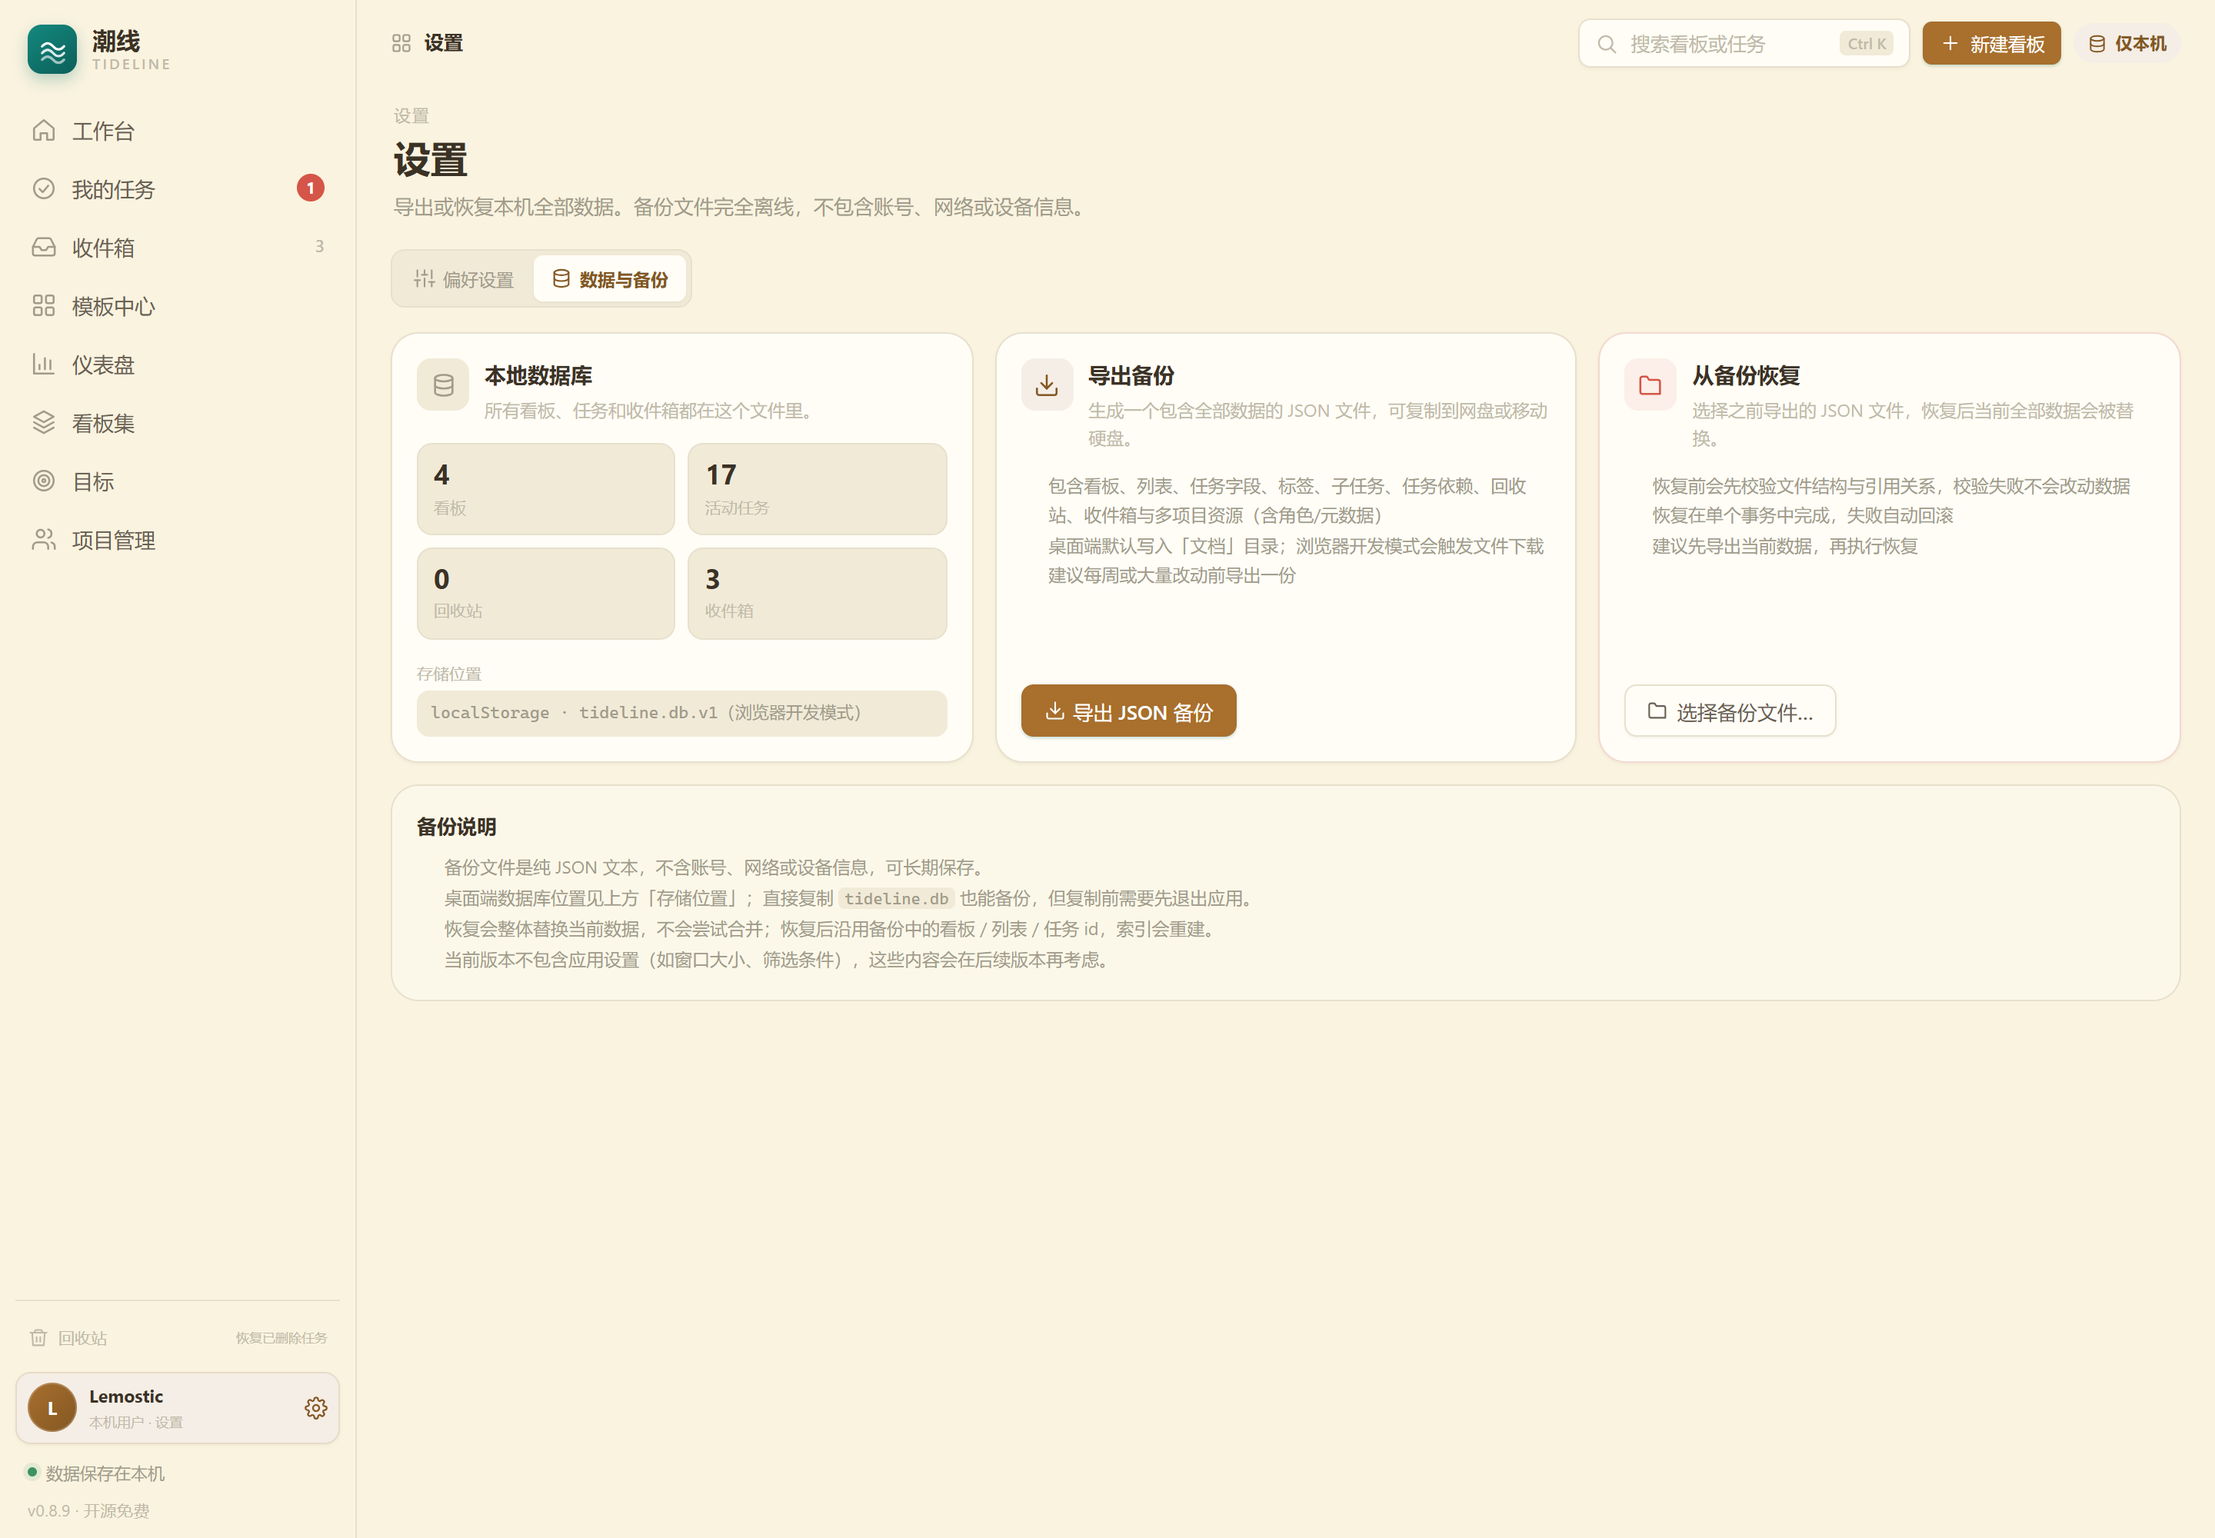
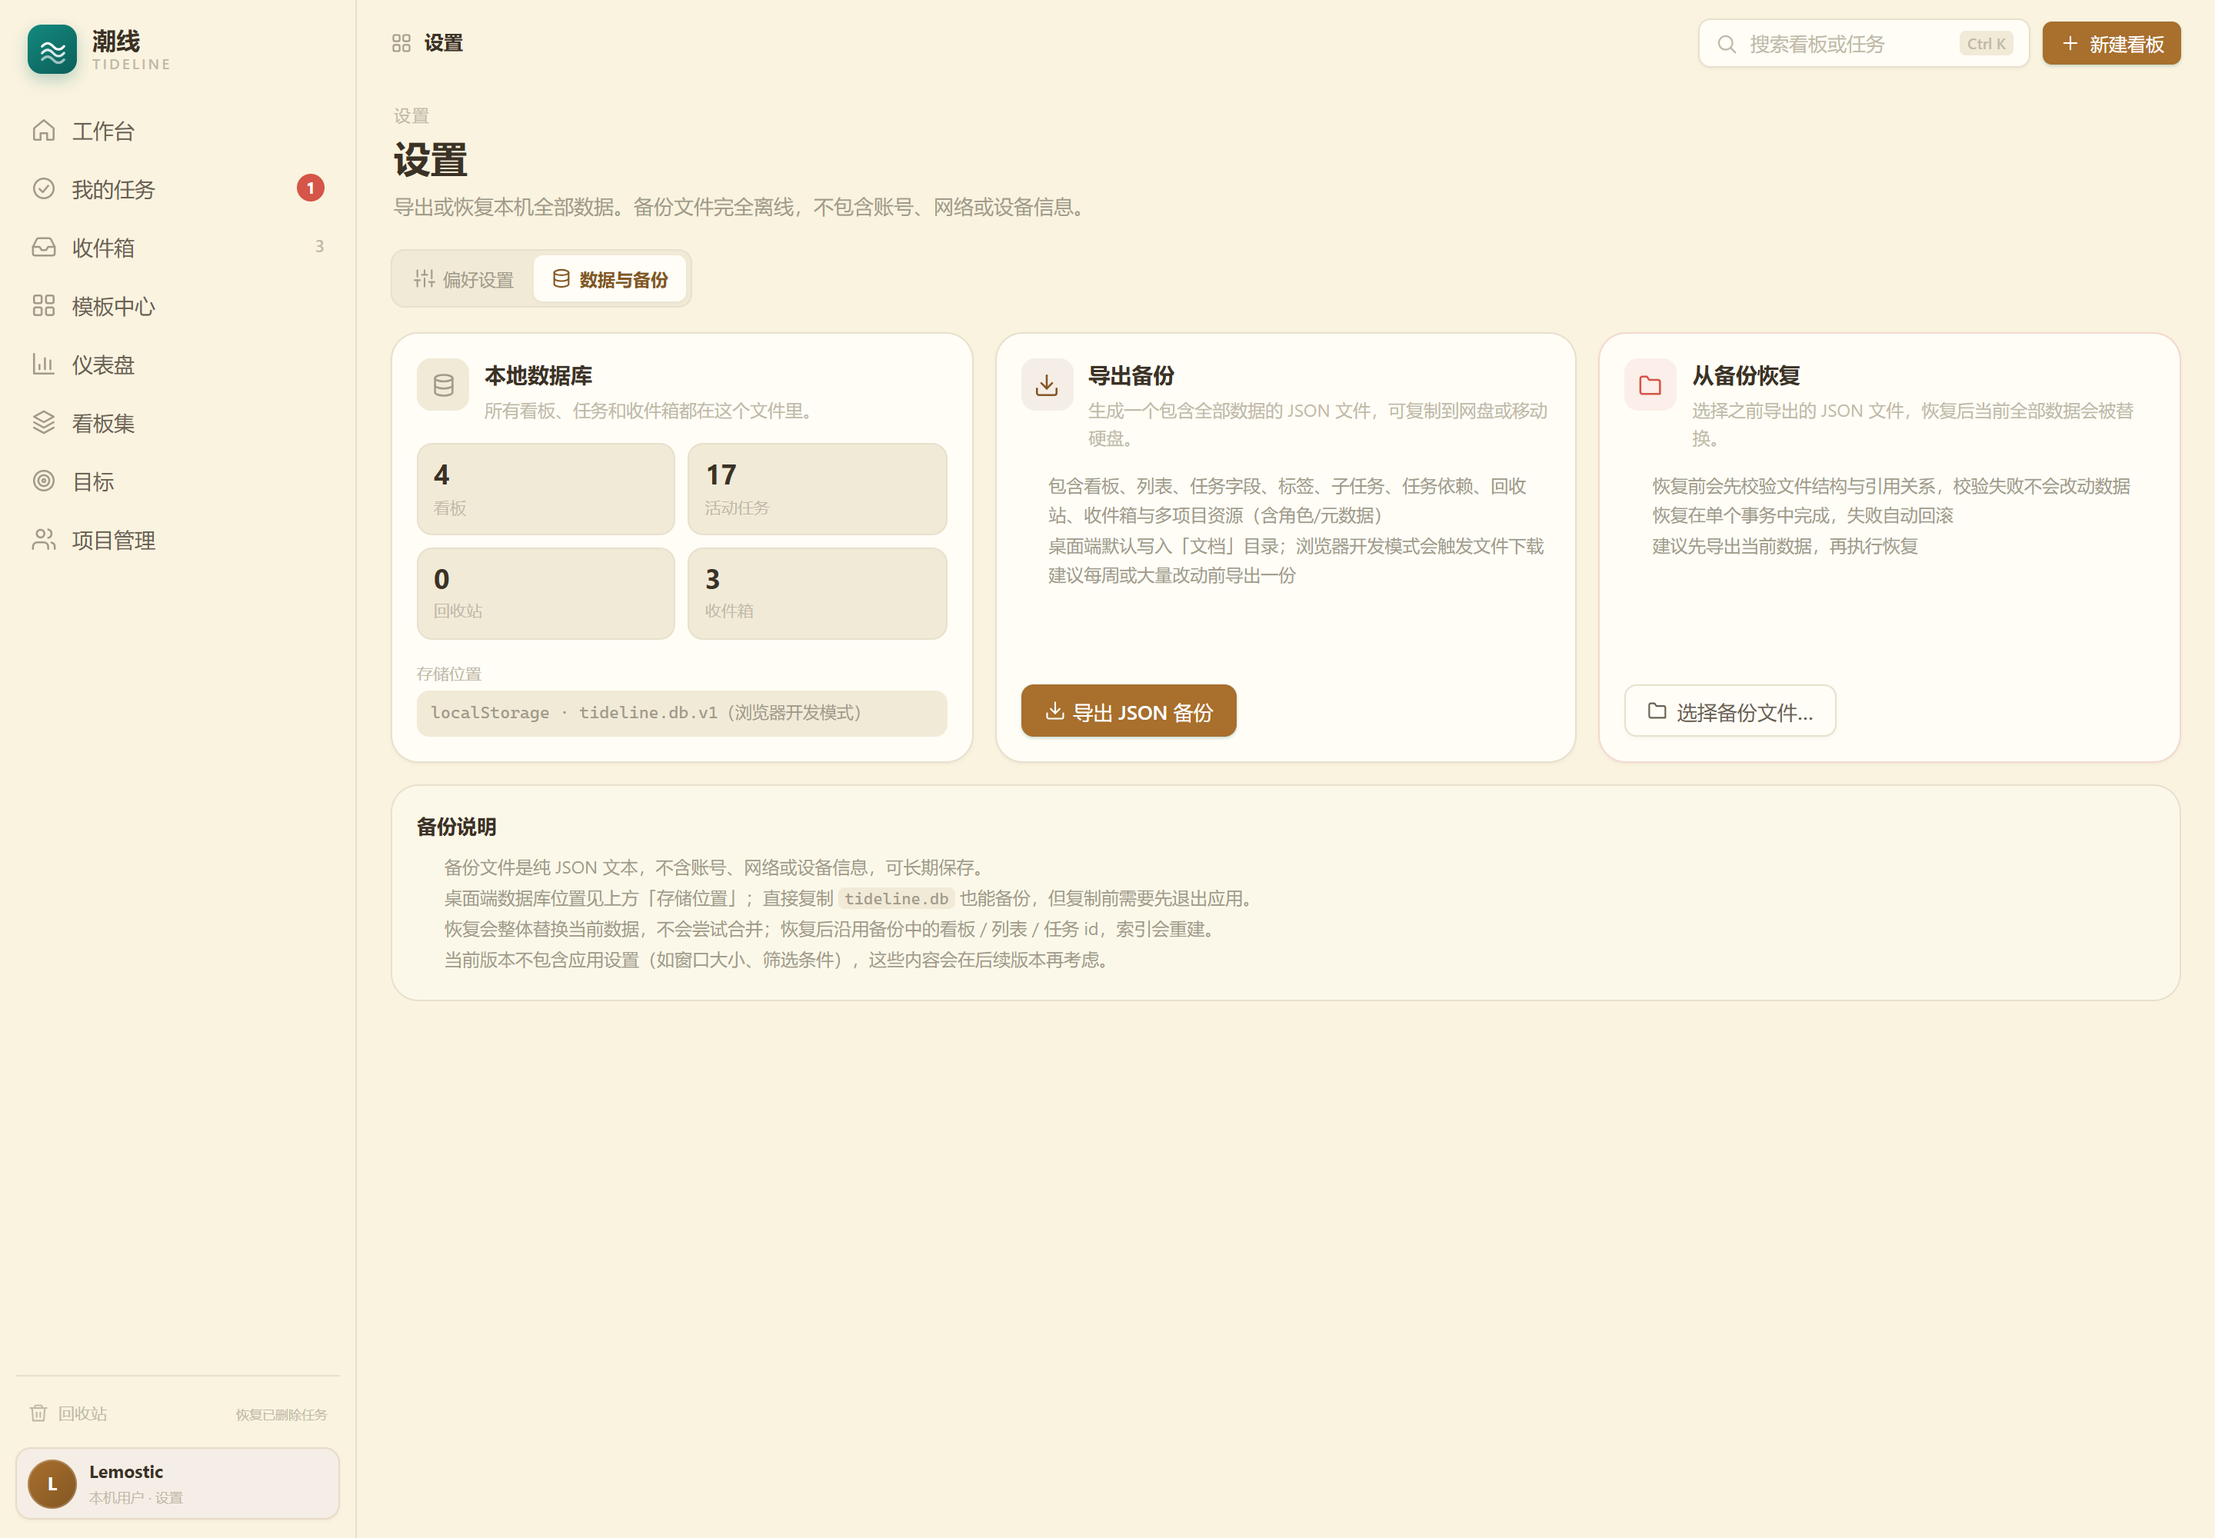
feat: V0.8.10 清理冗余本机状态与按钮
- 移除左下角「数据保存在本机」状态与版本号
- 移除 Profile 卡片右侧齿轮图标，保留头像/用户名点击进入设置
- 移除顶栏「仅本机」胶囊，右上角只保留搜索与新建看板
- 修正窄屏侧边栏底部回收站/Profile 被压缩的问题
- 侧边栏 E2E 增加冗余元素移除断言，更新截图与文档
- 安装包验证 0.8.9 自定义路径升级、0.8.10 全新安装/启动/卸载

Changed region(s): [[0.75, 0.0, 1.0, 0.062], [0.0, 0.868, 0.0938, 0.992], [0.0938, 0.868, 0.1562, 0.93]]

diff --git a/src/styles/base.css b/src/styles/base.css
@@ -271,32 +271,7 @@ ol {
   gap: 8px;
 }
 
-.storage-status {
-  display: flex;
-  align-items: center;
-  gap: 6px;
-  padding: 0 8px;
-  font-size: 11px;
-  color: var(--muted);
-  user-select: none;
-}
 
-.storage-dot {
-  width: 6px;
-  height: 6px;
-  border-radius: 50%;
-  background: var(--success);
-  box-shadow: 0 0 0 3px rgba(63, 174, 109, 0.12);
-  flex: 0 0 auto;
-}
-
-.sidebar-version {
-  padding: 0 8px;
-  font-size: 10.5px;
-  color: var(--faint);
-  letter-spacing: 0.02em;
-  user-select: none;
-}
 
 /* ---------- 顶栏 ---------- */
 .topbar {
@@ -362,21 +337,6 @@ ol {
   background: var(--surface-sunken);
   border-radius: 4px;
   padding: 1px 5px;
-}
-
-.local-pill {
-  display: inline-flex;
-  align-items: center;
-  gap: 5px;
-  height: 26px;
-  padding: 0 9px;
-  border-radius: 999px;
-  background: var(--primary-soft);
-  color: var(--primary-strong);
-  font-size: 11px;
-  font-weight: 600;
-  letter-spacing: 0.02em;
-  user-select: none;
 }
 
 .avatar {
@@ -1567,12 +1527,6 @@ ol {
   .nav-count,
   .vip-tag,
   .sidebar-section,
-  .sidebar-footer,
-  .storage-status,
-  .sidebar-version {
-    display: none;
-  }
-
   .nav-item {
     width: 40px;
     height: 40px;
@@ -1647,6 +1601,10 @@ ol {
 @media (max-width: 820px) {
   .sidebar-footer {
     display: flex;
+    width: 40px;
+    height: auto;
+    flex: 0 0 auto;
+    gap: 6px;
     margin-top: auto;
     padding-top: 8px;
     border-top: 0;
@@ -1725,19 +1683,6 @@ ol {
   white-space: nowrap;
 }
 
-.sidebar-profile-icon {
-  display: grid;
-  flex: 0 0 auto;
-  place-items: center;
-  color: var(--faint);
-  opacity: 0.75;
-}
-
-.sidebar-profile:hover .sidebar-profile-icon,
-.sidebar-profile.is-active .sidebar-profile-icon {
-  color: var(--primary-strong);
-  opacity: 1;
-}
 
 @media (max-width: 820px) {
   .sidebar-profile {
@@ -1749,10 +1694,6 @@ ol {
   }
 
   .sidebar-profile-text,
-  .sidebar-profile-icon {
-    display: none;
-  }
-
   .sidebar-profile-avatar {
     width: 30px;
     height: 30px;

diff --git a/src/components/Sidebar.tsx b/src/components/Sidebar.tsx
@@ -85,15 +85,7 @@ export function Sidebar() {
             <strong>Lemostic</strong>
             <small>本机用户 · 设置</small>
           </span>
-          <span className="sidebar-profile-icon">
-            <Icon name="settings" size={15} />
-          </span>
         </NavLink>
-        <div className="storage-status">
-          <span className="storage-dot" />
-          数据保存在本机
-        </div>
-        <div className="sidebar-version">v{__APP_VERSION__} · 开源免费</div>
       </div>
     </aside>
   );

diff --git a/src/components/TopBar.tsx b/src/components/TopBar.tsx
@@ -99,10 +99,6 @@ export function TopBar() {
           <Icon name="plus" size={14} />
           新建看板
         </button>
-        <span className="local-pill" title="所有数据只保存在这台设备上">
-          <Icon name="database" size={13} />
-          仅本机
-        </span>
       </div>
     </header>
   );

diff --git a/README.md b/README.md
@@ -37,7 +37,7 @@
 - **更新检查** —— 设置页可手动检查 GitHub 正式 Release，显示新版本、发布日期与说明，并一键打开发布页；可开启「启动时检查更新」（每 24 小时最多一次），发现新版本时顶栏显示提醒。**安装包签名完成前不静默下载安装**，始终由用户从发布页手动安装
 - **开机自动启动** —— 设置页可开启/关闭「开机自动启动」；桌面端写入当前用户 `HKCU\...\Run` 注册表，登录 Windows 后自动打开潮线，浏览器开发模式显示为不可用
 
-> 目标模块已完成；V0.4（任务依赖 / 备份 / 批量操作）、V0.5（仪表盘 / 看板集）、V0.6（目标 / 更新检查）、V0.7（看板个性化 / 工作台 / 双视图 / 开机启动）、V0.8.0（项目组资源）、V0.8.1（多项目 / 自定义角色 / 元数据）、V0.8.2（任务详情居中弹窗）、V0.8.3（多段投入记录）、V0.8.4（设置入口迁移 / 备份并入设置）、V0.8.5（主题系统）、V0.8.6（项目管理布局与命名）、V0.8.7（左下角 Profile 设置入口）、V0.8.8（任务详情紧凑表单）、V0.8.9（回收站降级为工具入口）均已交付。
+> 目标模块已完成；V0.4（任务依赖 / 备份 / 批量操作）、V0.5（仪表盘 / 看板集）、V0.6（目标 / 更新检查）、V0.7（看板个性化 / 工作台 / 双视图 / 开机启动）、V0.8.0（项目组资源）、V0.8.1（多项目 / 自定义角色 / 元数据）、V0.8.2（任务详情居中弹窗）、V0.8.3（多段投入记录）、V0.8.4（设置入口迁移 / 备份并入设置）、V0.8.5（主题系统）、V0.8.6（项目管理布局与命名）、V0.8.7（左下角 Profile 设置入口）、V0.8.8（任务详情紧凑表单）、V0.8.9（回收站降级为工具入口）、V0.8.10（移除冗余状态与按钮）均已交付。
 
 ### 界面预览
 
@@ -141,7 +141,7 @@
 
 ### 方式一：安装包（推荐）
 
-下载 `release/tideline-0.8.9-win64-setup.exe`，双击按向导安装即可（安装向导为简体中文）。
+下载 `release/tideline-0.8.10-win64-setup.exe`，双击按向导安装即可（安装向导为简体中文）。
 默认安装目录为 **`%LOCALAPPDATA%\Programs\Tideline`**（通常即 `C:\Users\<用户名>\AppData\Local\Programs\Tideline`；程序文件不再放进 Roaming 漫游目录），安装时仍可自选其它目录；
 **如果检测到旧版本，会自动带出旧版本的安装路径并默认覆盖安装，无需手动卸载旧版本**，升级后本地数据保持不变。
 安装器会创建开始菜单与桌面快捷方式，卸载可在「设置 → 应用」中完成。
@@ -154,7 +154,7 @@
 pnpm install
 pnpm tauri dev          # 桌面端开发模式
 pnpm tauri build --bundles nsis   # 打 NSIS 安装包
-# 产物：src-tauri/target/release/bundle/nsis/tideline_0.8.9_x64-setup.exe
+# 产物：src-tauri/target/release/bundle/nsis/tideline_0.8.10_x64-setup.exe
 ```
 
 浏览器里调试 UI（数据写 localStorage，与桌面端共用页面代码）：
@@ -225,7 +225,7 @@ pnpm tauri build --bundles nsis   # Windows NSIS 安装包
 | V0.1（已完成） | 看板 / 我的任务 / 收件箱 / 模板中心 / 本地 SQLite |
 | V0.2（已完成） | 任务抽屉增强（子任务/标签/Markdown/起止日期）、表格视图、甘特视图、旧库自动迁移 |
 | **V0.3 / V0.3.1 / V0.3.2 / V0.3.3 / V0.3.4 / V0.3.5 / V0.3.6 / V0.3.7 / V0.3.8 / V0.4.0（已完成）** | 日历视图、看板内筛选器、任务回收站、NSIS 安装包、v3 数据库迁移；持续补丁优化卡片/拖拽/弹窗/表格层级、安装路径、桌面端拖拽、宽屏列宽与各菜单主体铺满 |
-| **V0.4.1 / V0.4.2 / V0.5.0 / V0.5.1 / V0.5.2 / V0.5.3 / V0.5.4 / V0.5.5 / V0.6.0 / V0.6.1 / V0.7.0 / V0.7.1 / V0.7.2 / V0.7.3 / V0.8.0 / V0.8.1 / V0.8.2 / V0.8.3 / V0.8.4 / V0.8.5 / V0.8.6 / V0.8.7 / V0.8.8 / V0.8.9（当前）** | V0.4 收尾：任务依赖、看板内批量操作；设置管理（启动页 / 默认视图 / 每周起始日 / 默认隐藏已完成 / 自定义数据目录 / 任务链连线）；V0.5 仪表盘与看板集；V0.5.5 中文安装向导与旧路径自动沿用；V0.6.0 目标树与进度回写；V0.6.1 更新检查与顶栏提醒；V0.7.0 卡片颜色、列表颜色/WIP、安装器注册表安装目录；V0.7.1 工作台门户与依赖箭头方向；V0.7.2 工作台/看板卡片列表视图切换；V0.7.3 开机自动启动；V0.8.0 项目组资源与绩效；V0.8.1 多项目、自定义角色与项目元数据；V0.8.2 任务详情居中弹窗（4:3、独立滚动）；V0.8.3 多段投入记录与项目投入统计；V0.8.4 设置入口移至左下角齿轮，数据备份并入设置；V0.8.5 主题外观与自定义配色；V0.8.6 项目管理列表布局与菜单改名；V0.8.7 左下角 Profile 入口；V0.8.8 任务详情紧凑表单；V0.8.9 回收站移至侧边栏底部工具区 |
+| **V0.4.1 / V0.4.2 / V0.5.0 / V0.5.1 / V0.5.2 / V0.5.3 / V0.5.4 / V0.5.5 / V0.6.0 / V0.6.1 / V0.7.0 / V0.7.1 / V0.7.2 / V0.7.3 / V0.8.0 / V0.8.1 / V0.8.2 / V0.8.3 / V0.8.4 / V0.8.5 / V0.8.6 / V0.8.7 / V0.8.8 / V0.8.9 / V0.8.10（当前）** | V0.4 收尾：任务依赖、看板内批量操作；设置管理（启动页 / 默认视图 / 每周起始日 / 默认隐藏已完成 / 自定义数据目录 / 任务链连线）；V0.5 仪表盘与看板集；V0.5.5 中文安装向导与旧路径自动沿用；V0.6.0 目标树与进度回写；V0.6.1 更新检查与顶栏提醒；V0.7.0 卡片颜色、列表颜色/WIP、安装器注册表安装目录；V0.7.1 工作台门户与依赖箭头方向；V0.7.2 工作台/看板卡片列表视图切换；V0.7.3 开机自动启动；V0.8.0 项目组资源与绩效；V0.8.1 多项目、自定义角色与项目元数据；V0.8.2 任务详情居中弹窗（4:3、独立滚动）；V0.8.3 多段投入记录与项目投入统计；V0.8.4 设置入口移至左下角齿轮，数据备份并入设置；V0.8.5 主题外观与自定义配色；V0.8.6 项目管理列表布局与菜单改名；V0.8.7 左下角 Profile 入口；V0.8.8 任务详情紧凑表单；V0.8.9 回收站移至侧边栏底部工具区；V0.8.10 移除冗余本机状态与按钮 |
 | V0.4（已完成） | 任务依赖、JSON 导入/导出与备份入口、看板内批量操作 |
 | V0.5（已完成） | 仪表盘统计、看板集（多板汇总表） |
 | V0.6（已完成） | 目标、更新检查；静默自动安装与代码签名待证书 |
@@ -251,6 +251,7 @@ pnpm tauri build --bundles nsis   # Windows NSIS 安装包
 
 | 版本 | 变更 |
 | --- | --- |
+| V0.8.10 | 清理冗余状态提示：移除左下角「数据保存在本机」与版本号、Profile 右侧齿轮按钮、顶栏「仅本机」胶囊；本机存储由产品默认承担，不再重复提示 |
 | V0.8.9 | 回收站从主业务导航移出，降级到侧边栏底部工具区（Profile 上方），弱化为「恢复已删除任务」入口；主业务导航只保留高频模块，路由与恢复能力不变 |
 | V0.8.8 | 任务详情元数据改为 3 列 x 2 行紧凑表单：列表、状态、优先级、开始/截止日期、卡片颜色一屏排布；创建/更新时间移到标题下方小字；弹窗宽度提升到 1320px，打开时不再出现纵向滚动条，任务正文成为主体区域 |
 | V0.8.7 | 左下角设置入口改为 Profile 卡片：头像、用户名、本机身份与设置图标；点击直接进入设置，支持 Ctrl+, 快捷键；移除顶栏重复头像，底部更接近桌面 Profile 设计 |

diff --git a/docs/开发计划.md b/docs/开发计划.md
@@ -117,6 +117,7 @@ V0.2 验收（已完成）：
 | V0.8.7 功能 | 左下角设置入口改为 Profile 卡片：头像、用户名、本机身份与设置图标，点击进入设置；支持 Ctrl+, 快捷键；移除顶栏重复头像 |
 | V0.8.8 功能 | 任务详情元数据紧凑化：6 项元数据排成 3 列 x 2 行，创建/更新时间移到标题下方；弹窗宽度提升到 1320px，打开时无纵向滚动条，正文区域成为主体 |
 | V0.8.9 功能 | 回收站从主业务导航移出，降到侧边栏底部工具区（Profile 上方），弱化为「恢复已删除任务」入口；主业务导航只保留高频模块，路由与恢复能力不变 |
+| V0.8.10 功能 | 清理冗余状态：移除侧边栏底部「数据保存在本机」与版本号、Profile 右侧齿轮、顶栏「仅本机」胶囊；数据本地保存属性由产品默认承担，不再重复提示 |
 
 V0.3 验收（已完成）：
 
@@ -291,6 +292,13 @@ V0.8.9 回收站信息架构验收（已完成）：
 - [x] 回收站位于所有主模块下方的工具区，视觉弱化
 - [x] 回收站仍在 Profile 上方，可快速进入恢复任务
 - [x] 窄屏下保留图标入口，路由与恢复能力不变
+
+V0.8.10 冗余状态清理验收（已完成）：
+
+- [x] 移除左下角「数据保存在本机」与版本号
+- [x] 移除 Profile 卡片右侧齿轮按钮
+- [x] 移除顶栏「仅本机」胶囊
+- [x] 保留 Profile 头像/用户名点击进入设置
 
 ---
 

diff --git a/docs/五个版本规划.md b/docs/五个版本规划.md
@@ -47,6 +47,7 @@
 - 周末加班：按日期、成员、时长排班；可标记「已发生」；月度小时汇总
 - 绩效加减分：交付/质量/协作维度，加分正数、减分负数；按成员月度排名与净分
 - 成员多段投入记录：入组/出组历史独立时间段、可编辑补录、项目维度累计人天统计（V0.8.3）
+- 清理冗余本机状态/仅本机/版本号/齿轮（V0.8.10）
 - 回收站降级为侧边栏底部工具入口（V0.8.9）
 - 任务详情紧凑表单，元数据 3 列 x 2 行（V0.8.8）
 - 左下角 Profile 设置入口（V0.8.7）
